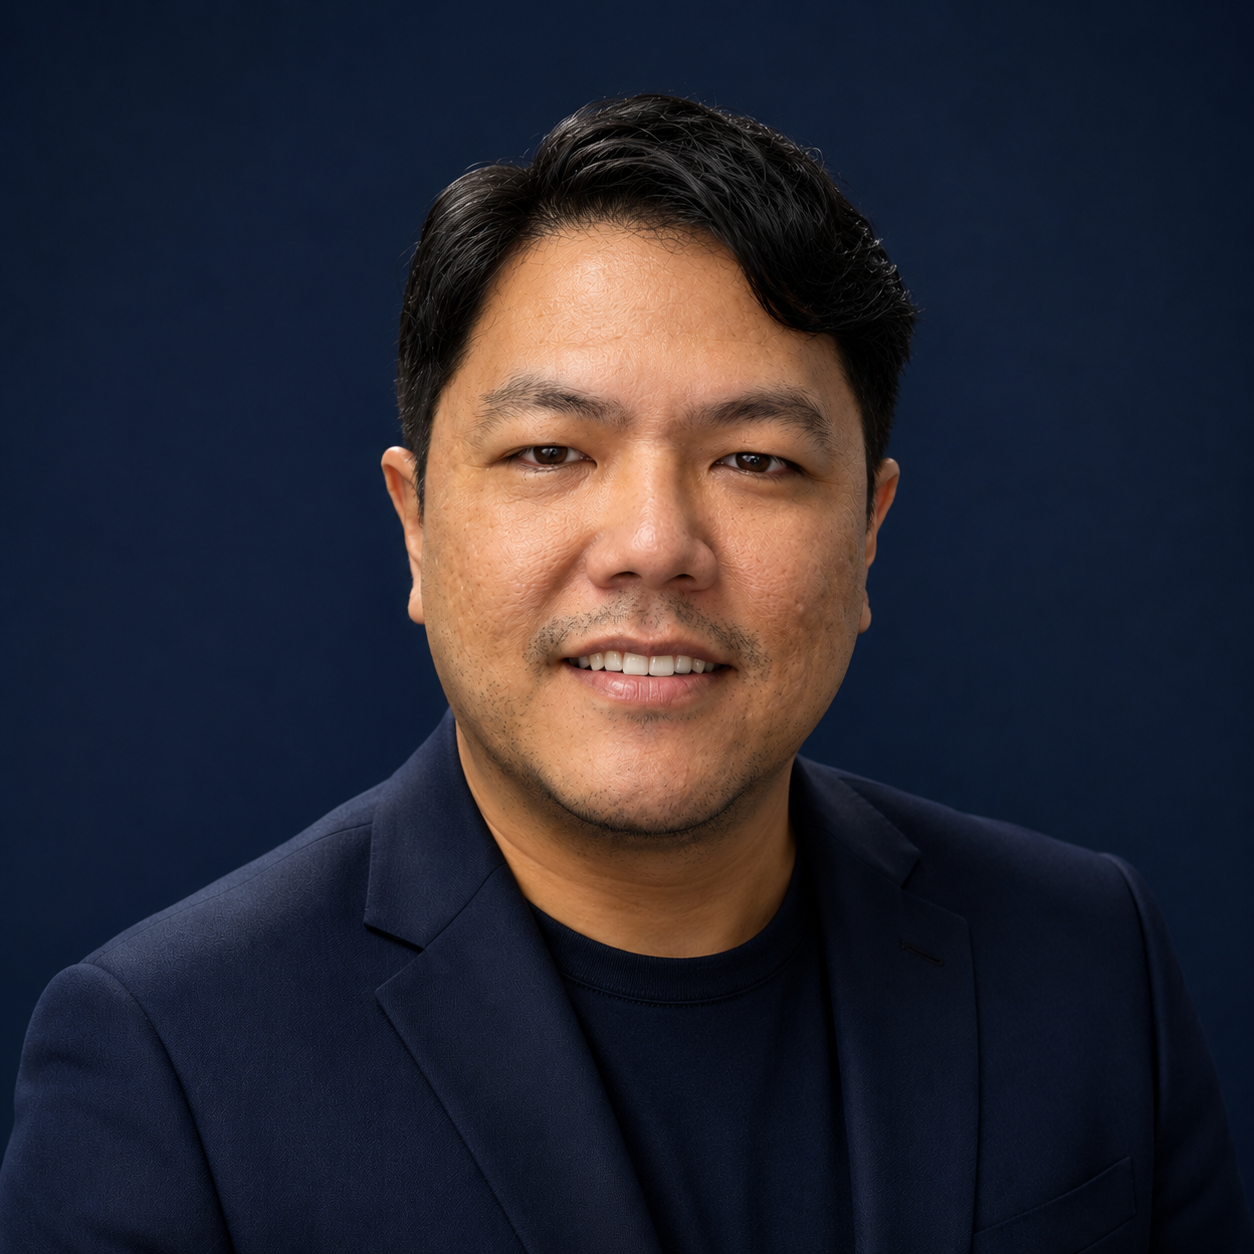
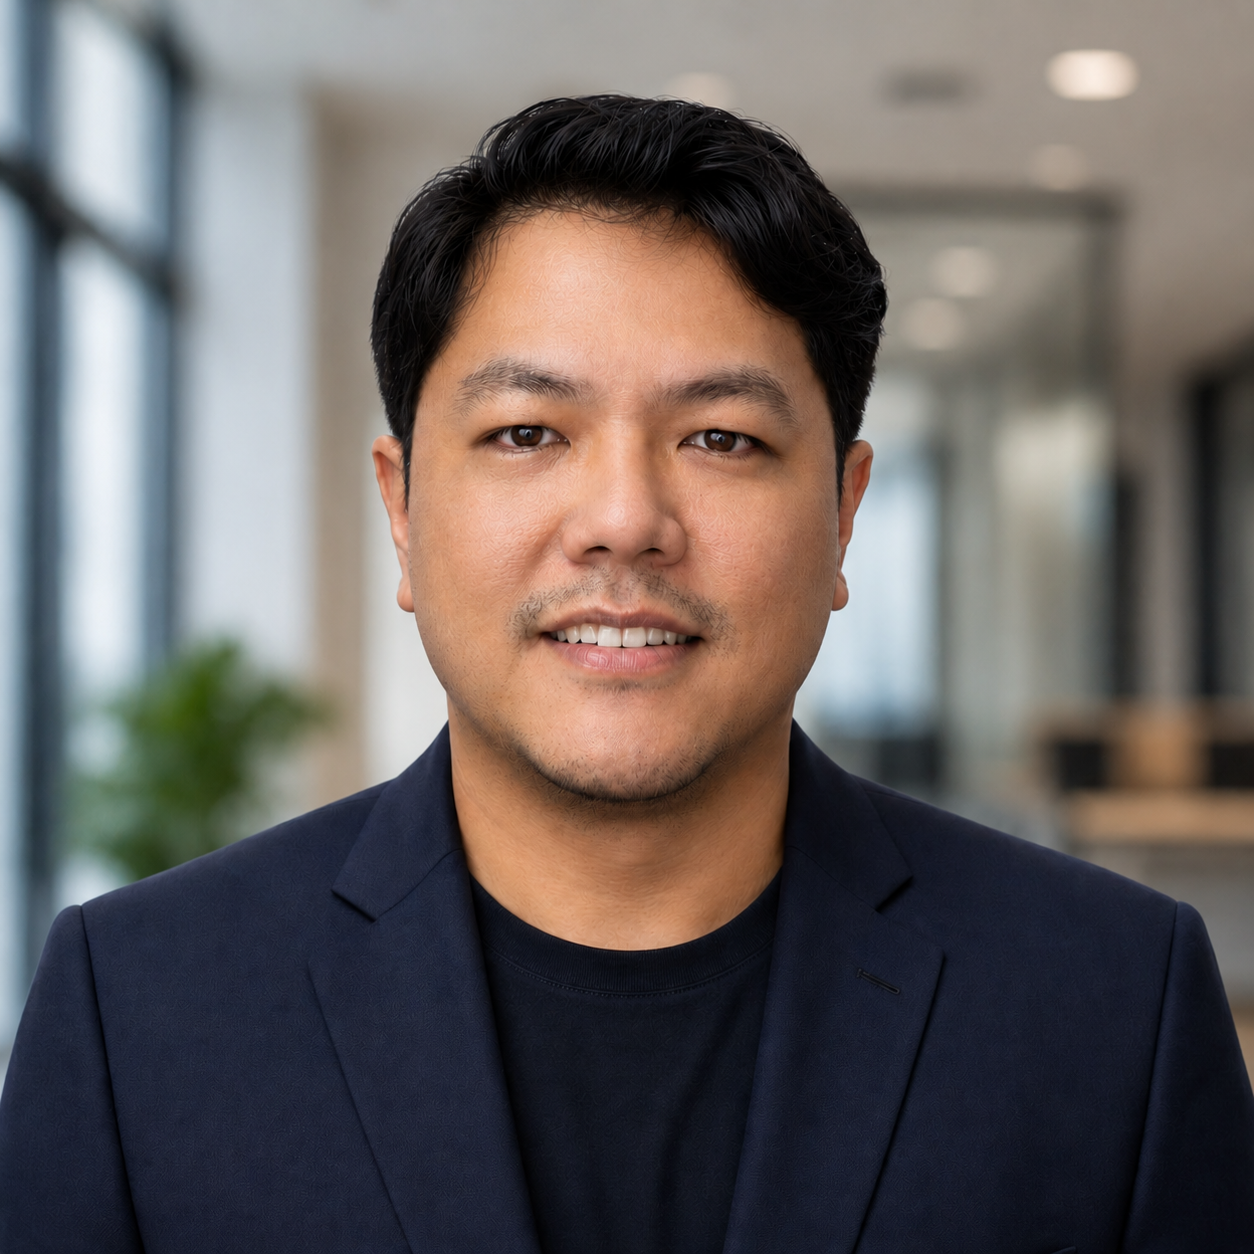
Update headshot

diff --git a/src/routes/resume.tsx b/src/routes/resume.tsx
@@ -42,22 +42,15 @@ function App() {
             </CardTitle>
           </CardHeader>
           <CardContent>
-            <div className="flex items-center gap-8">
-              <p className="flex-1 leading-relaxed">
-                Strategic Change Management & Creative Lead with 15+ years
-                driving large-scale digital transformation across corporate
-                and government-linked (GLC) ecosystems in Malaysia. I bridge
-                the gap between complex technical deployment and
-                human-centric workflows — combining deep 3D/creative
-                expertise with transformation frameworks like ADKAR and
-                Agile/Scrum to deliver measurable enterprise results.
-              </p>
-              <img
-                src="/headshot.png"
-                alt="Professional headshot"
-                className="w-44 h-52 rounded-2xl object-cover"
-              />
-            </div>
+            <p className="leading-relaxed">
+              Strategic Change Management & Creative Lead with 15+ years
+              driving large-scale digital transformation across corporate
+              and government-linked (GLC) ecosystems in Malaysia. I bridge
+              the gap between complex technical deployment and
+              human-centric workflows — combining deep 3D/creative
+              expertise with transformation frameworks like ADKAR and
+              Agile/Scrum to deliver measurable enterprise results.
+            </p>
           </CardContent>
         </Card>
 

diff --git a/src/routes/index.tsx b/src/routes/index.tsx
@@ -47,7 +47,7 @@ function Home() {
             </div>
           </div>
           <img
-            src="/headshot.png"
+            src={`${import.meta.env.BASE_URL}headshot.png`}
             alt="Kray Mohsin"
             className="w-40 h-40 sm:w-52 sm:h-52 rounded-full object-cover shadow-md"
           />

diff --git a/src/router.tsx b/src/router.tsx
@@ -9,7 +9,6 @@ export const getRouter = () => {
     routeTree,
     scrollRestoration: true,
     defaultPreloadStaleTime: 0,
-    basepath: '/kray3d-online',
   })
 
   return router

diff --git a/vite.config.ts b/vite.config.ts
@@ -6,7 +6,6 @@ import tailwindcss from '@tailwindcss/vite'
 import contentCollections from '@content-collections/vite'
 
 export default defineConfig({
-  base: '/kray3d-online/',
   plugins: [
     contentCollections(),
     viteTsConfigPaths({ projects: ['./tsconfig.json'] }),